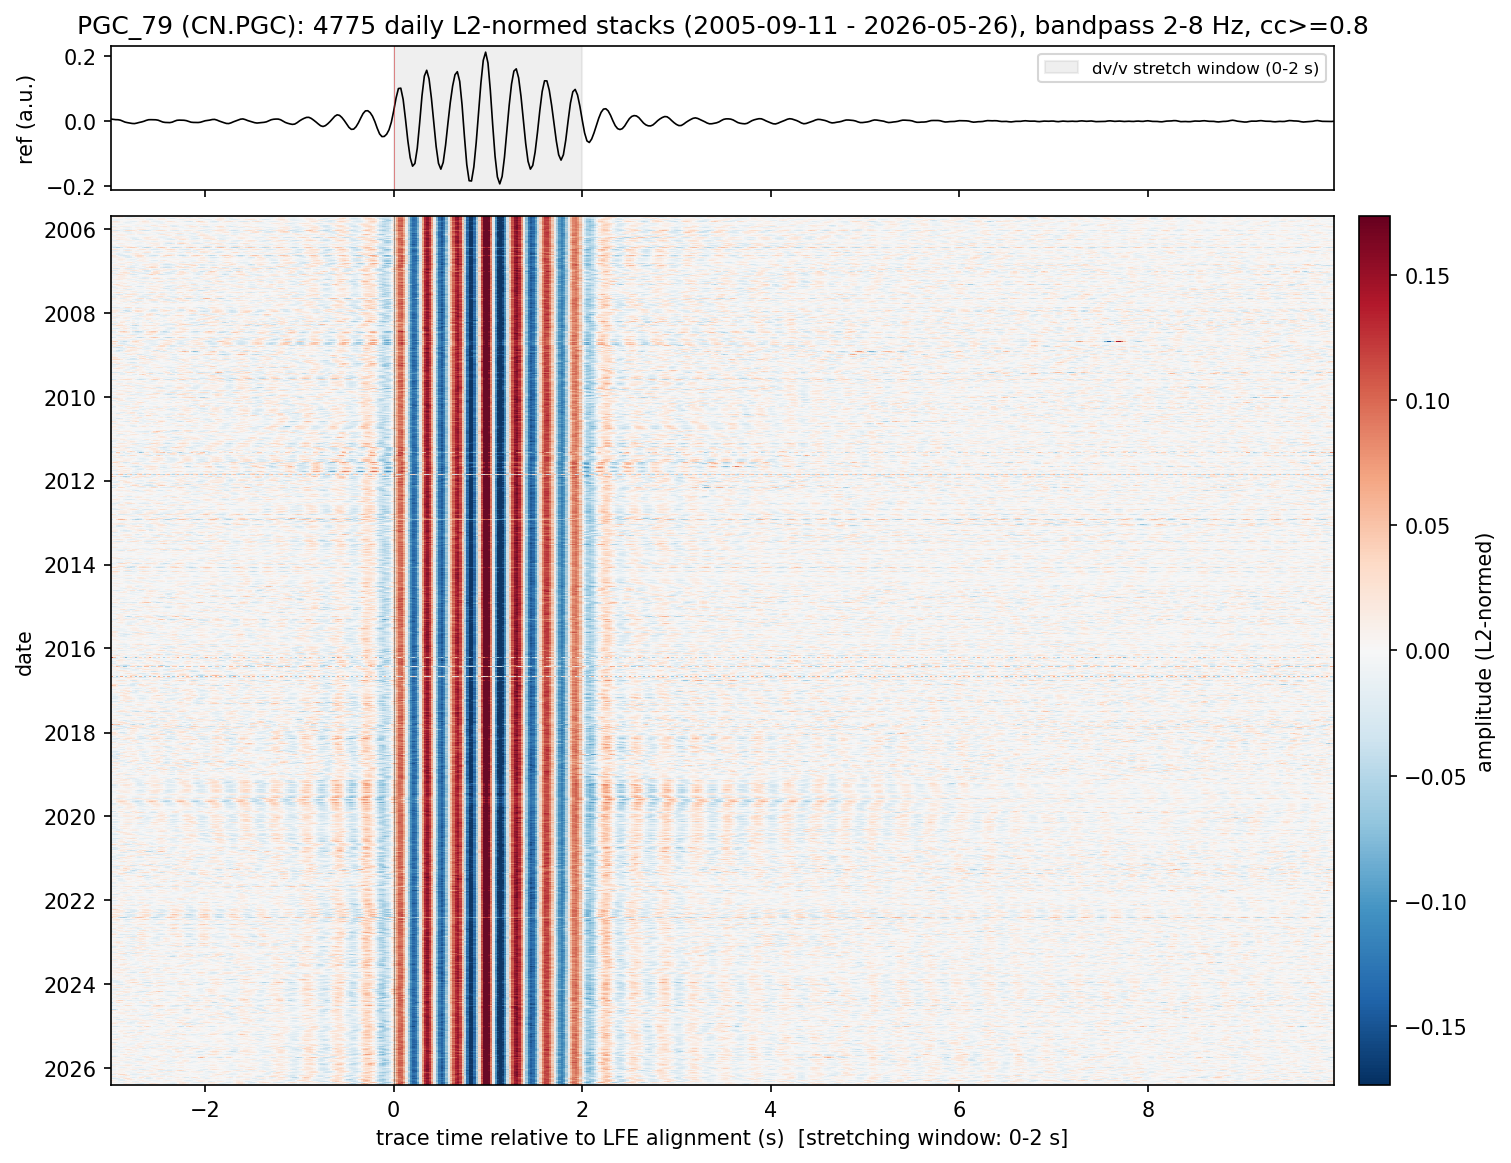
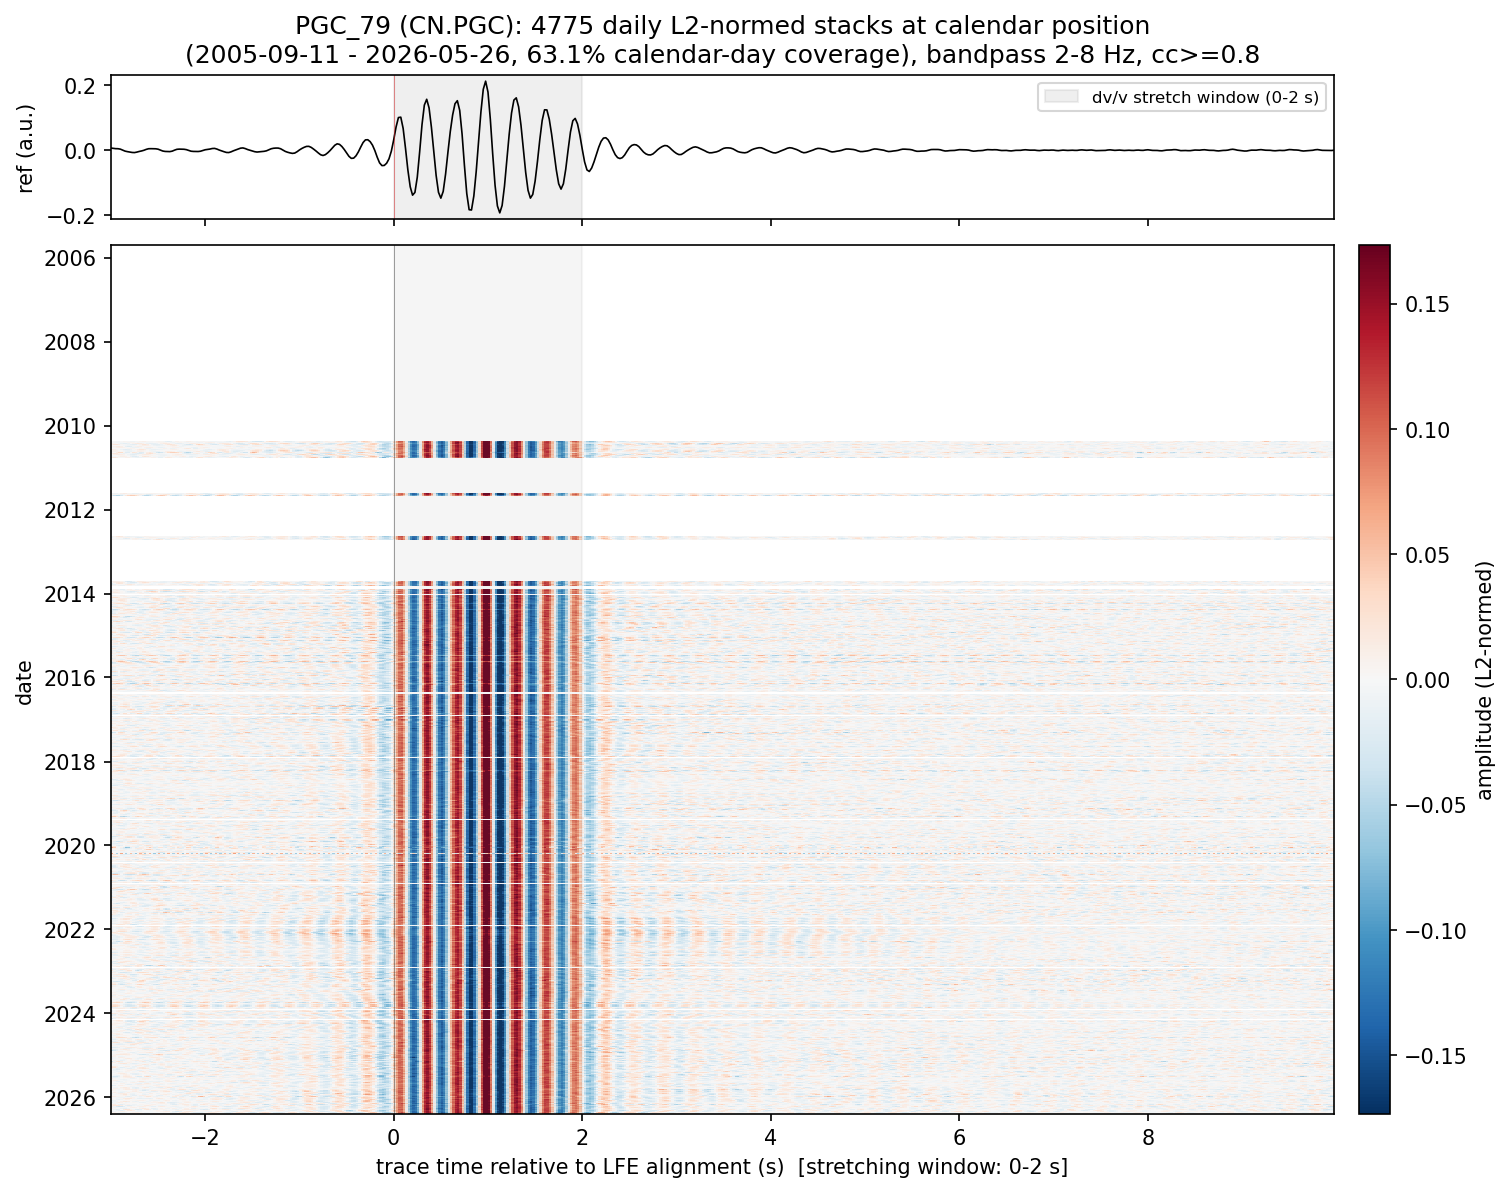
Long-window image: place rows at true calendar dates, NaN gaps
Previous plot used imshow with date_nums in extent but rows spaced
uniformly through the y-extent. With interpolation=nearest the empty
2006-2009 band got painted with whichever observed row was nearest,
faking continuous coverage that doesn't actually exist.

Build a (n_calendar_days, n_samples) array, place each observed daily
stack at its true date index, leave the rest NaN. cmap.set_bad('white')
renders gaps as white so coverage is now honest -- the figure shows
63.1% calendar-day coverage with the big 2005-2010 gap and the
ETS-only intermittent 2010-2014 coverage clearly visible (we only
fetched waveforms for ETS-active months back then).

diff --git a/scripts/plot_long_window_stack.py b/scripts/plot_long_window_stack.py
@@ -186,6 +186,20 @@ def main():
 
     print("[4/4] Plotting...")
     dates = pd.to_datetime(daily_dates)
+    # Place each observed daily stack at its true calendar position; missing
+    # days are NaN so the image is honest about coverage gaps (otherwise
+    # imshow stretches rows uniformly across the y-extent and hides gaps).
+    day_min = dates.min().normalize()
+    day_max = dates.max().normalize()
+    all_days = pd.date_range(day_min, day_max, freq="D")
+    img = np.full((len(all_days), daily_arr.shape[1]), np.nan, dtype=np.float32)
+    idx = np.searchsorted(
+        all_days.values.astype("datetime64[D]"),
+        dates.values.astype("datetime64[D]"),
+    )
+    img[idx] = daily_arr
+    coverage_pct = 100 * len(daily_arr) / len(all_days)
+
     fig = plt.figure(figsize=(11, 9))
     gs = fig.add_gridspec(2, 2, height_ratios=[1, 6], width_ratios=[40, 1],
                           hspace=0.05, wspace=0.04)
@@ -198,20 +212,22 @@ def main():
     ax0.set_ylabel("ref (a.u.)")
     ax0.set_title(
         f"{args.template} ({args.network}.{args.station}): {len(daily_arr)} daily L2-normed stacks "
-        f"({df['time'].min().date()} – {df['time'].max().date()}), "
+        f"at calendar position\n"
+        f"({df['time'].min().date()} - {df['time'].max().date()}, "
+        f"{coverage_pct:.1f}% calendar-day coverage), "
         f"bandpass {args.fmin}-{args.fmax} Hz, cc>={args.cc_min}"
     )
     plt.setp(ax0.get_xticklabels(), visible=False)
 
     ax1 = fig.add_subplot(gs[1, 0], sharex=ax0)
-    # convert dates to ordinal floats for imshow extents
-    date_nums = mdates.date2num(dates.to_pydatetime())
-    # we plot with imshow using row index, then map ticks to dates
-    vmax = float(np.percentile(np.abs(daily_arr), 99))
+    date_nums = mdates.date2num(all_days.to_pydatetime())
+    vmax = float(np.nanpercentile(np.abs(img), 99))
+    cmap = plt.get_cmap("RdBu_r").copy()
+    cmap.set_bad("white")
     im = ax1.imshow(
-        daily_arr,
+        img,
         aspect="auto",
-        cmap="RdBu_r",
+        cmap=cmap,
         vmin=-vmax, vmax=vmax,
         extent=[t_axis[0], t_axis[-1], date_nums[-1], date_nums[0]],
         interpolation="nearest",
